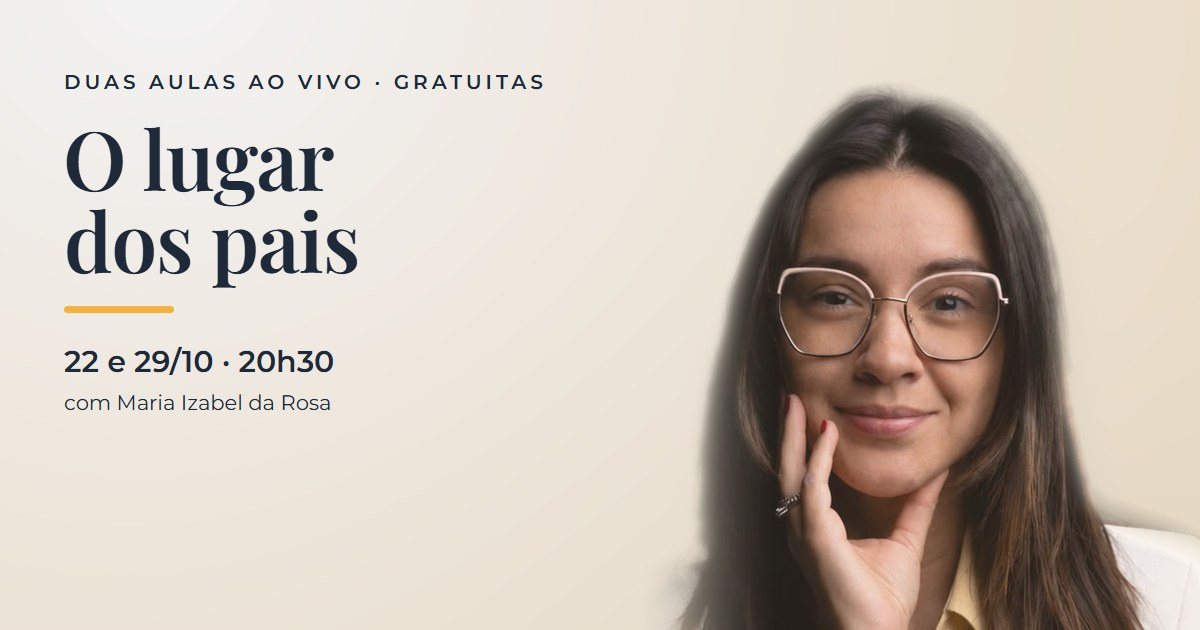
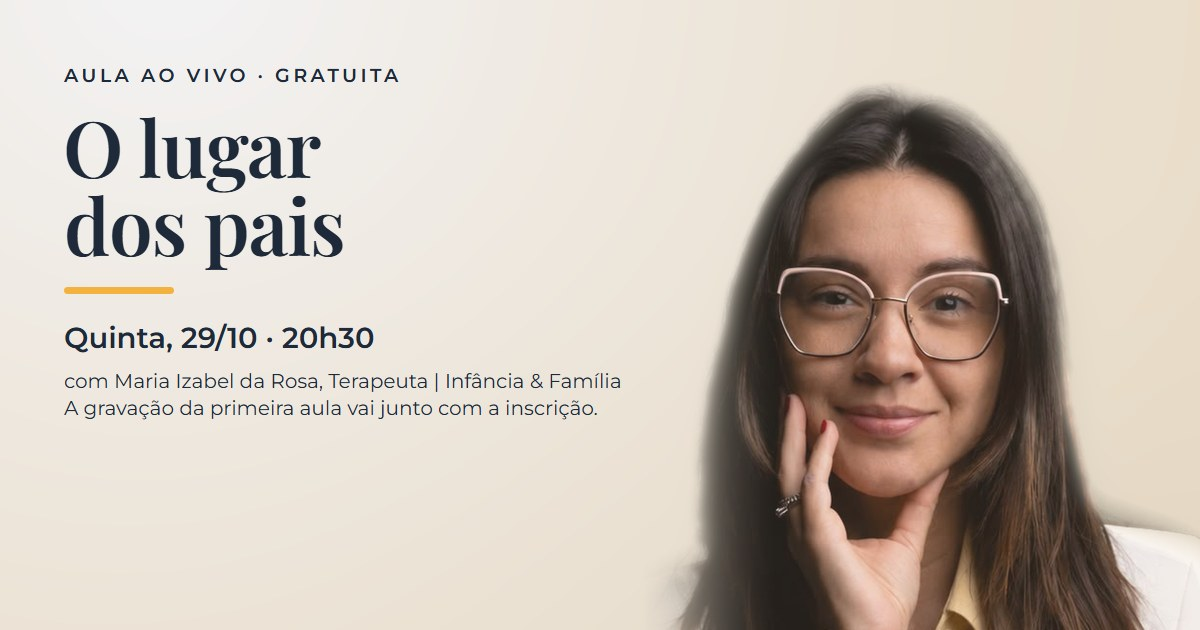
Imagens de compartilhamento novas: /aulas (29/10 + gravação) e /olugardospais (turma)

Changed region(s): [[0.0308, 0.181, 0.5242, 0.6635], [0.0308, 0.0905, 0.4625, 0.1508]]

diff --git a/olugardospais/index.html b/olugardospais/index.html
@@ -19,14 +19,14 @@ j=d.createElement(s),dl=l!='dataLayer'?'&l='+l:'';j.async=true;j.src=
 <meta property="og:title" content="O Lugar dos Pais · Turma Fundadora">
 <meta property="og:description" content="Pai e mãe no mesmo lugar diante do filho. Cinco encontros ao vivo com a Bel, até 10 famílias, início em 12/11.">
 <!-- TODO: trocar pela imagem própria da página de vendas (1200x630). Por enquanto usa a imagem das aulas. -->
-<meta property="og:image" content="https://mariaizabeldarosa.com.br/aulas/og-aulas.jpg">
+<meta property="og:image" content="https://mariaizabeldarosa.com.br/olugardospais/og-olugardospais.jpg">
 <meta property="og:image:width" content="1200">
 <meta property="og:image:height" content="630">
 <meta property="og:url" content="https://mariaizabeldarosa.com.br/olugardospais/">
 <meta property="og:type" content="website">
 <meta property="og:locale" content="pt_BR">
 <meta name="twitter:card" content="summary_large_image">
-<meta name="twitter:image" content="https://mariaizabeldarosa.com.br/aulas/og-aulas.jpg">
+<meta name="twitter:image" content="https://mariaizabeldarosa.com.br/olugardospais/og-olugardospais.jpg">
 <link rel="preconnect" href="https://fonts.googleapis.com">
 <link rel="preconnect" href="https://fonts.gstatic.com" crossorigin>
 <link href="https://fonts.googleapis.com/css2?family=Playfair+Display:ital,wght@0,500;0,600;1,500;1,600&family=Montserrat:wght@400;600;700&display=swap" rel="stylesheet">
